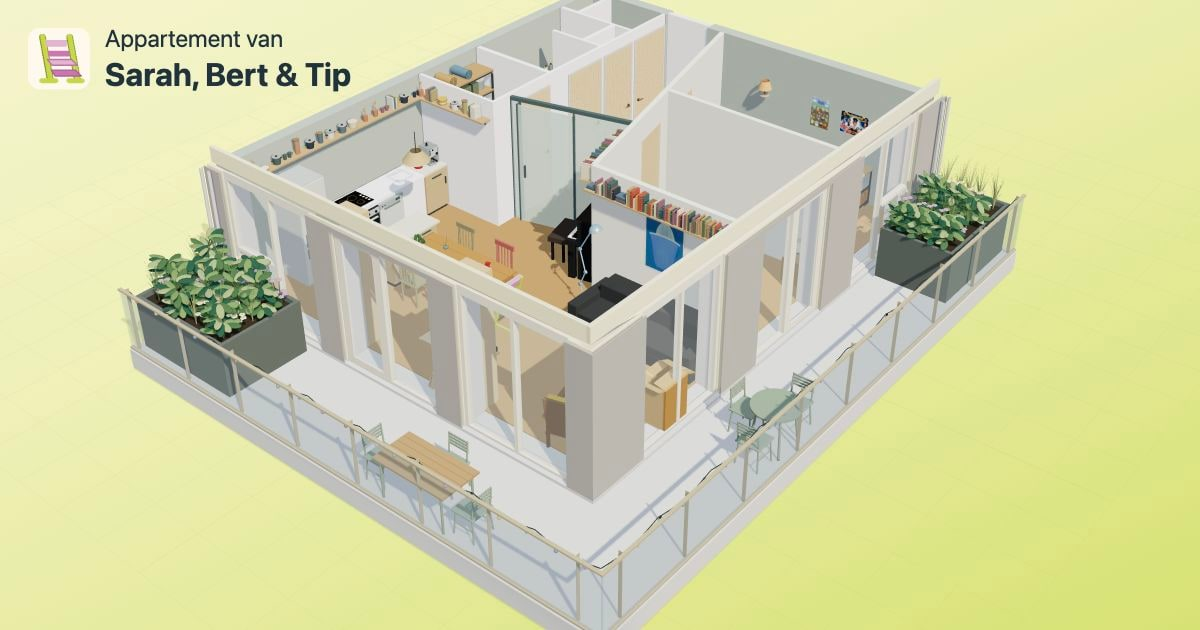
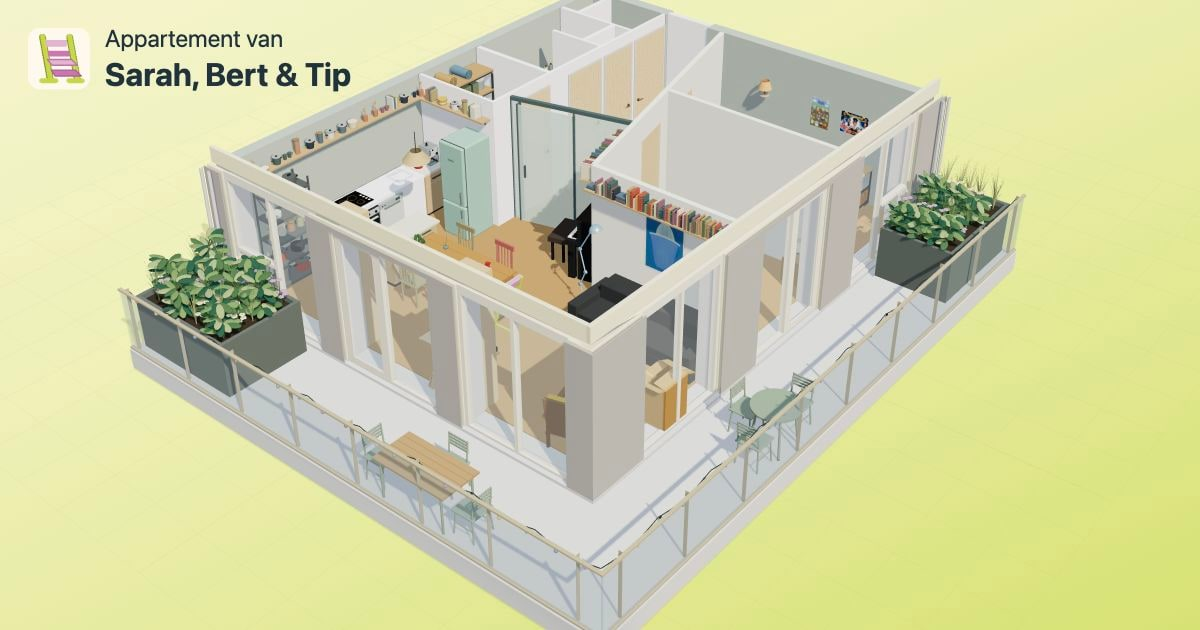
Move green SMEG fridge to side wall and restore kitchen rack

Changed region(s): [[0.3392, 0.2111, 0.4317, 0.3921], [0.2158, 0.2714, 0.2775, 0.4524]]

diff --git a/src/lib/furnishings.ts b/src/lib/furnishings.ts
@@ -211,9 +211,8 @@ export function addKitchenAppliances(parent:T.Group){
  for(const x of [-.20,.20]){const knob=mesh(oven,new T.CylinderGeometry(.024,.024,.018,20),material('#434a4d',.5),x,.79,.045);knob.rotation.x=Math.PI/2;}
  box(oven,0,.79,.033,.12,.038,.009,'#172625');
  for(let i=0;i<5;i++)box(oven,-.16+i*.08,.15,.025,.055,.009,.008,'#171d20');
- // Matching 60 cm worktop cabinets separate the fridge from the hob and
- // complete the run to the right of the sink, against the service return.
- for(const [name,x] of [['Worktop cabinet beside fridge',kitchen.leftWorktopX],['Worktop cabinet beside sink',kitchen.rightWorktopX]] as const){
+ // Matching worktop cabinets at both ends of the hob/dishwasher/sink run.
+ for(const [name,x] of [['Worktop cabinet beside hob',kitchen.leftWorktopX],['Worktop cabinet beside sink',kitchen.rightWorktopX]] as const){
  const cabinet=new T.Group();cabinet.name=name;cabinet.position.set(x,0,-3.47);group.add(cabinet);
  box(cabinet,0,.045,0,.56,.09,.53,'#4a4842');
  box(cabinet,0,.50,0,.60,.82,.60,'#b89d79');
@@ -234,16 +233,40 @@ export function addKitchenAppliances(parent:T.Group){
  for(let i=0;i<3;i++)box(dishwasher,.125+i*.023,.81,.042,.013,.014,.002,'#91bca9');
  for(const x of [-.23,-.17]){const button=mesh(dishwasher,new T.CylinderGeometry(.011,.011,.007,16),material('#526164',.5),x,.81,.04);button.rotation.x=Math.PI/2;}
  box(dishwasher,0,.06,-.012,.55,.10,.025,'#454e4d');
- // Fridge at the left end, leaving 55.5 cm clear beside the window wall.
- // Handles on the left, matching the user’s right-hinged fridge doors.
- const fridge=new T.Group();fridge.name='Fridge-freezer';fridge.position.set(kitchen.fridgeX,0,-3.44);group.add(fridge);
- box(fridge,0,1.005,0,.60,2.01,.65,'#c1c5c3');
- box(fridge,0,.055,.02,.53,.10,.57,'#414747');
- box(fridge,0,.43,.336,.585,.70,.035,'#d7dad6');
- box(fridge,0,1.395,.336,.585,1.20,.035,'#d7dad6');
- box(fridge,-.235,.69,.38,.025,.19,.045,'#818b8c');
- box(fridge,-.235,.96,.38,.025,.25,.045,'#818b8c');
+ addSmegFridge(group);
  return group;
+}
+
+function addSmegFridge(parent:T.Group){
+ // Stylised water-green SMEG FAB32LPG6, using the manufacturer's envelope.
+ // https://www.smeg.com/nl/products/FAB32LPG6
+ const fridge=new T.Group();fridge.name='SMEG FAB32 — water green';
+ fridge.position.set(kitchen.fridgeX,0,kitchen.fridgeZ);
+ fridge.rotation.y=kitchen.fridgeRotation;parent.add(fridge);
+ const enamel=new T.MeshStandardMaterial({color:'#a6cbbb',roughness:.24,metalness:.08});
+ const chrome=new T.MeshStandardMaterial({color:'#d7dfdf',roughness:.21,metalness:.85});
+ const seal=material('#61746c');
+ function rounded(x:number,y:number,z:number,w:number,h:number,d:number,r:number,mat:T.Material){return mesh(fridge,new RoundedBoxGeometry(w,h,d,4,r),mat,x,y,z);}
+ rounded(0,.994,-.039,kitchen.fridgeWidth,1.948,.650,.045,enamel);
+ box(fridge,0,.03,-.04,.50,.06,.55,'#414747');
+ for(const [y,h] of [[.3835,.695],[1.3505,1.215]]){
+  rounded(0,y,.289,.590,h+.008,.014,.006,seal);
+  rounded(0,y,.325,.591,h,.078,.035,enamel);
+ }
+ // Left-hinged doors; chrome pull handles on the right, facing the kitchen.
+ for(const [y,h] of [[.60,.18],[.94,.25]]){
+  for(const end of [-1,1])rounded(.221,y+end*(h/2-.018),.376,.025,.025,.04,.01,chrome);
+  rounded(.221,y,.395,.023,h,.018,.008,chrome);
+ }
+ // Raised-looking wordmark, retained as a texture in the downloadable GLB.
+ const label=document.createElement('canvas');label.width=512;label.height=128;
+ const context=label.getContext('2d')!;context.textAlign='center';context.textBaseline='middle';
+ context.font='600 78px Arial';context.fillStyle='#f0f5f2';context.fillText('S M E G',256,63);
+ context.fillStyle='#899c94';context.fillText('S M E G',256,66);
+ const texture=new T.CanvasTexture(label);texture.colorSpace=T.SRGBColorSpace;
+ const badge=mesh(fridge,new T.PlaneGeometry(.245,.061),new T.MeshStandardMaterial({map:texture,transparent:true,roughness:.3,metalness:.55}),0,1.64,.365);
+ badge.castShadow=false;
+ return fridge;
 }
 
 export function addNordElectro(parent:T.Group){

diff --git a/src/lib/apartment.ts b/src/lib/apartment.ts
@@ -1,6 +1,7 @@
 import {addEntranceFurniture} from './entrance-furniture';
 import {addCardboardHouse} from './cardboard-house';
 import {addStandingDesk} from './standing-desk';
+import {addKitchenRack} from './kitchen-rack';
 import {addOwnedArmchair} from './furnishings';
 import {optimizeScene} from './optimize-scene';
 import {addStorageShelves} from './storage-shelves';
@@ -86,7 +87,7 @@ export async function createApartment(host:HTMLElement,onState:(message:string)=
   setWoodenDoorsOpen(model,o.doorsOpen);
   if(!previous){
    const fixed=new T.Group();fixed.name='Fixed furniture';furniture.add(fixed);
-   addOwnedArmchair(fixed);addStandingDesk(fixed);addEntranceFurniture(fixed);addOwnedBed(fixed);addStorageShelves(fixed);addFestEdgeSofa(fixed);addColumnBookshelves(fixed);
+   addOwnedArmchair(fixed);addKitchenRack(fixed);addStandingDesk(fixed);addEntranceFurniture(fixed);addOwnedBed(fixed);addStorageShelves(fixed);addFestEdgeSofa(fixed);addColumnBookshelves(fixed);
    addBalconyBistroTable(fixed);addRectangularBalconyTable(fixed);addKitchenIsland(fixed);addDiningTable(fixed);addKitchenAppliances(fixed);addCounterAppliances(fixed);
    optimizeScene(fixed);furnitureBuilds++;
   }

diff --git a/src/lib/kitchen-layout.ts b/src/lib/kitchen-layout.ts
@@ -1,10 +1,17 @@
 // IKEA planner layout, November 2026. Metres from the model's left inner wall.
-// Six 60 cm modules, with 55.5 cm at the window side and 2.5 cm at the return.
+// Five 60 cm base modules; fridge against the end of the short service wall.
 // Connection drawing: KO at 1.930 m; water/drain are only shown schematically.
 export const kitchen = {
  leftWall: -4.66,
  moduleWidth: .60,
- fridgeX: -3.805,
+ // FAB32 envelope: 601 × 1968 × 768 mm including handle. Back clearance is
+ // provisional; check the selected appliance's installation requirements.
+ fridgeX: -.894,
+ fridgeZ: -2.2655,
+ fridgeRotation: -Math.PI/2,
+ fridgeWidth: .601,
+ fridgeHeight: 1.968,
+ fridgeDepth: .768,
  leftWorktopX: -3.205,
  hobX: -2.605,
  dishwasherX: -2.005,

diff --git a/README.md b/README.md
@@ -42,7 +42,7 @@ The app now displays only the hand-sketched layout. Layout switching and the mod
 
 ## Furniture and divider update
 
-The kitchen now follows the November 2026 IKEA planner arrangement: fridge, 60 cm worktop cabinet, hob/oven, dishwasher, sink, and a second 60 cm worktop cabinet. Module centres are 855, 1455, 2055, 2655, 3255 and 3855 mm from the left inner wall; coordinates live in `src/lib/kitchen-layout.ts`. The steel kitchen rack is omitted. The espresso machine and kettle sit on the right-hand worktop. The supplied connection drawing places KO at 1930 mm; the sink/drain position is schematic and needs site verification. The local model retains its 950 mm worktop height and 1200 × 550 mm island; these are not the IKEA planner's final construction dimensions. Source SketchUp/GLB files are preserved, and the transforms are included in visible-model exports.
+The kitchen follows the November 2026 IKEA planner arrangement: five 60 cm base modules (worktop, hob/oven, dishwasher, sink, worktop), with centres at 1455, 2055, 2655, 3255 and 3855 mm from the left inner wall. The fridge stands at the living-room end of the short service wall, facing the kitchen; the steel rack is restored at the left end of the rear wall. Its stylised water-green SMEG FAB32LPG6 uses the manufacturer's 601 × 1968 × 768 mm envelope including handles (https://www.smeg.com/nl/products/FAB32LPG6). The provisional 50 mm rear gap and door opening need an installation check; the closed fridge leaves about 75 cm beside the island (about 71 cm in the IKEA version). Coordinates live in `src/lib/kitchen-layout.ts`. The espresso machine and kettle remain on the right-hand worktop. The supplied connection drawing places KO at 1930 mm; the sink/drain position is schematic and needs site verification. The local model retains its 950 mm worktop height and 1200 × 550 mm island; these are not the IKEA planner's final construction dimensions. Source SketchUp/GLB files are preserved, and the transforms are included in visible-model exports.
 
 The bedroom divider centre is x=1.94 m, so its 5 cm half-thickness reaches the start of the source window frame at x=1.99 m (43 cm farther right than before). Tip has an approximate 1.04 × 2.10 m loft bunk with toys below. The upright piano is 1.35 m wide and follows the diagonal on the living-room side of the translucent partition. The baby-blue floor lamp follows the supplied articulated-lamp reference; its dimensions are approximate. Dining, bedside and child-room lights are also included and illuminate in evening mode. Furniture is shown by default.
 
